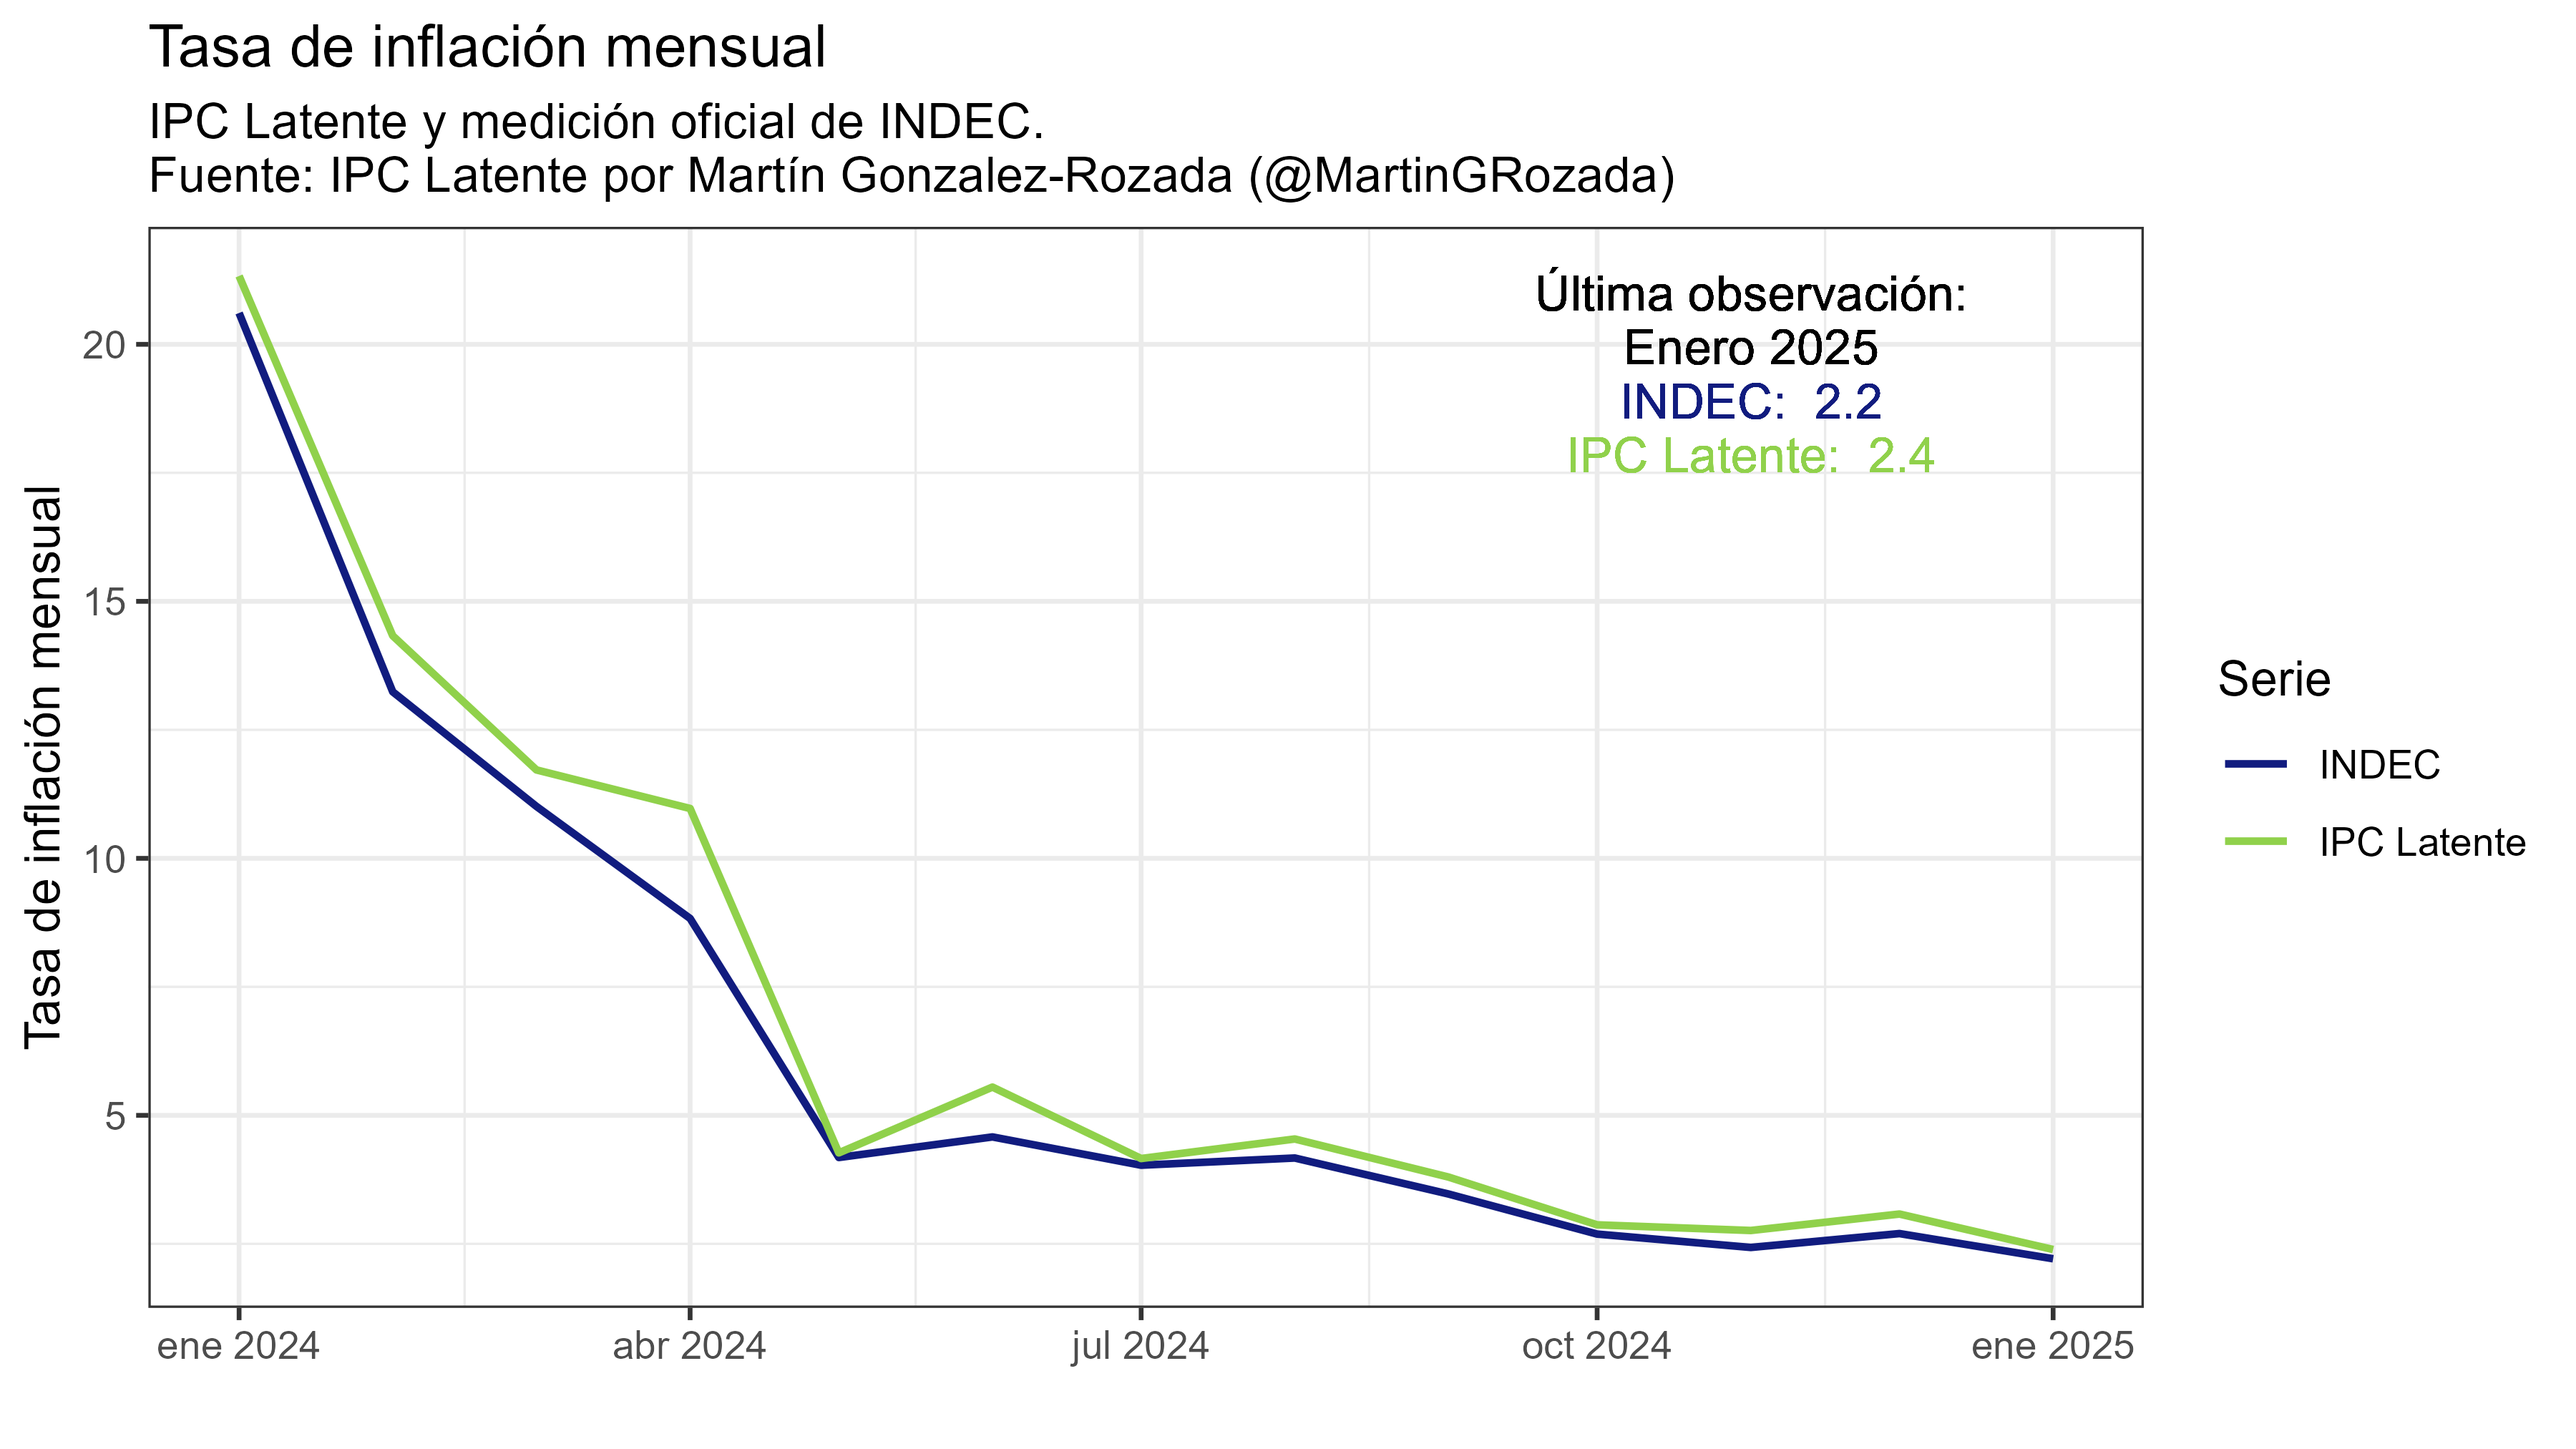
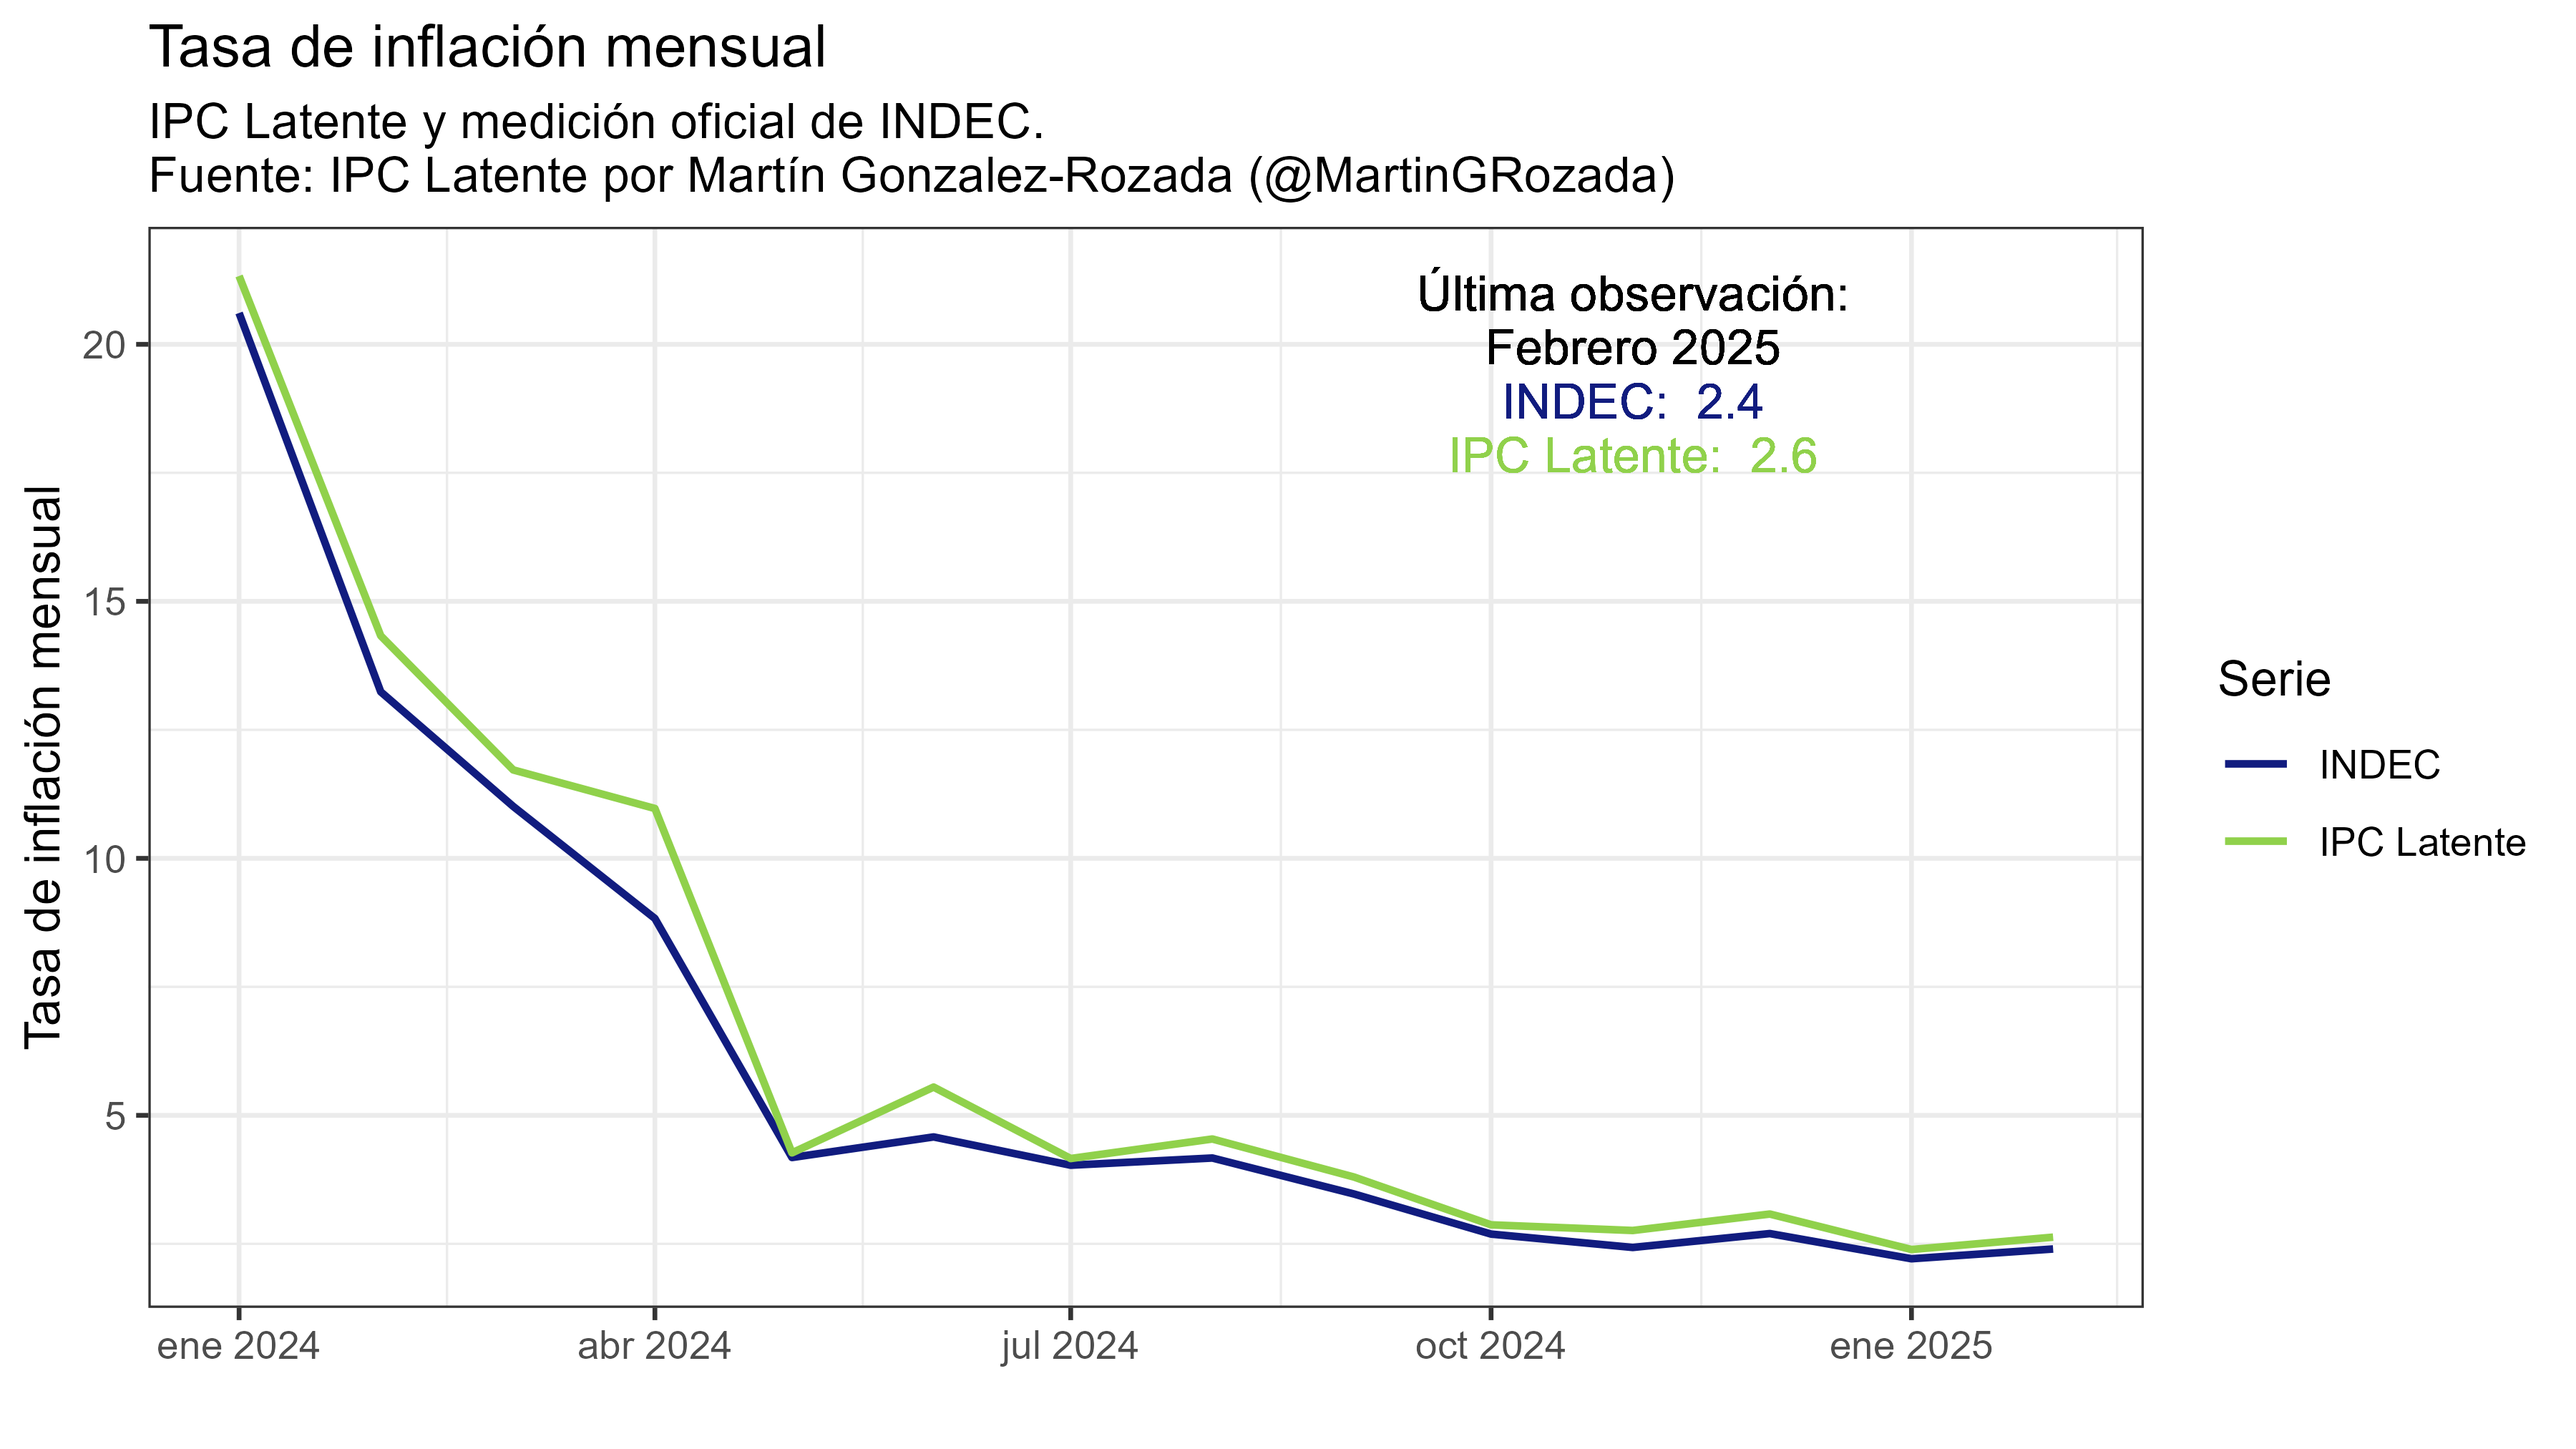
update 2025-02

diff --git a/_pages/ipclatente.md b/_pages/ipclatente.md
@@ -5,17 +5,19 @@ header:
   image: /assets/images/header-git4.jpg
 ---
 
-## RESULTADOS ENERO 2025
+## RESULTADOS FEBRERO 2025
 
-El Índice de Precios al Consumidor Latente, a nivel nacional (IPCL) aumentó un 2.4 por ciento en enero, luego de haber aumentado un 3.1 por ciento en diciembre impulsado por el aumento de precios de la división de Vivienda, Agua, Electricidad, Gas y Otros Combustibles que explicó alrededor del 33 por ciento de la inflación (Cuadros 1 y 2). 
+El Índice de Precios al Consumidor Latente, a nivel nacional (IPCL) aumentó un 2.6 por ciento en febrero, luego de haber aumentado un 2.4 por ciento en enero impulsado por el aumento de precios de la división de Vivienda, Agua, Electricidad, Gas y Otros Combustibles que explicó alrededor del 28 por ciento de la inflación (Cuadros 1 y 2). 
 
-Durante los últimos 12 meses, la inflación interanual fue de 96.7, comparado con el valor de 84.5 en los datos oficiales (Cuadro 1 y Figura 2).
+Durante los últimos 12 meses, la inflación interanual fue de 76.6, comparado con el valor de 66.9 en los datos oficiales (Cuadro 1 y Figura 2).
 
 ***Para leer el informe completo, haga click [aquí](https://mrozada.github.io/inflacionlatente/).***
 
 ![Series de tiempo IPC-Latente e IPC-INDEC](/assets/images/TimeSeriesTasaMensualIPCL.png)
 
 ***Links a informes en PDF***
+
+[Febrero 2025](https://github.com/mrozada/mrozada.github.io/blob/master/assets/pdf/INFLACION%20LATENTE%20-%202025-02.pdf)
 
 [Enero 2025](https://github.com/mrozada/mrozada.github.io/blob/master/assets/pdf/INFLACION%20LATENTE%20-%202025-01.pdf)
 
